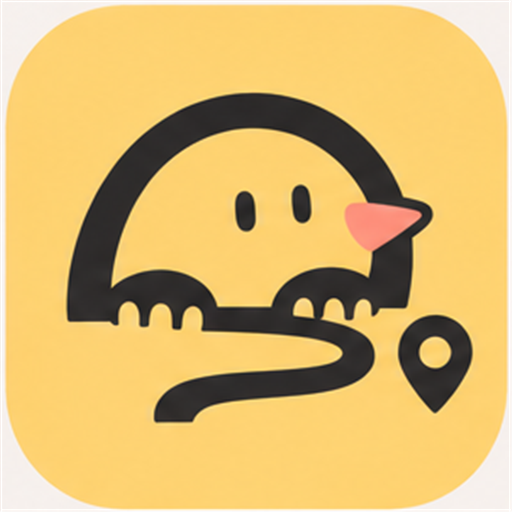
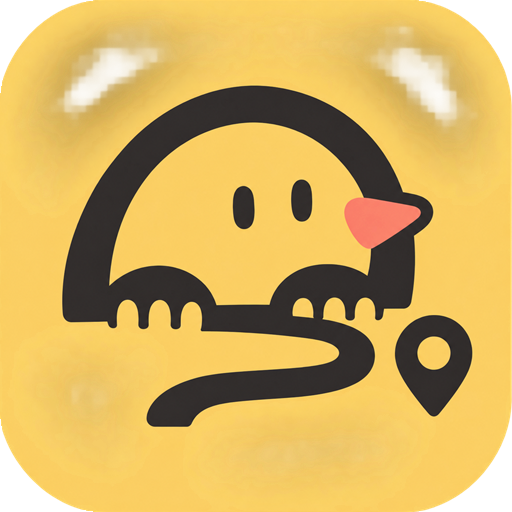
feat(frontend): 투명 마스코트와 앱 아이콘 적용
Refs #1

diff --git a/frontend/src/App.tsx b/frontend/src/App.tsx
@@ -142,7 +142,7 @@ export default function App() {
         <section className="stage">
           {!shown ? (
             <div className="empty">
-              <img className="empty-mascot" src="/setter-mascot.png" width="515" height="584" alt="" />
+              <img className="empty-mascot" src="/setter-mascot.png" width="384" height="434" alt="" />
               <h1 className="empty-title">출근지와 예산에 맞는 동네 찾기</h1>
               <ul className="empty-factors" aria-label="비교 기준">
                 {FACTORS.map((factor) => <li key={factor.key}>{factor.label}</li>)}

diff --git a/frontend/index.html b/frontend/index.html
@@ -2,7 +2,7 @@
 <html lang="ko">
   <head>
     <meta charset="UTF-8" />
-    <link rel="icon" type="image/png" sizes="192x192" href="/setter-icon-192.png" />
+    <link rel="icon" type="image/png" sizes="32x32" href="/setter-icon-32.png" />
     <link rel="apple-touch-icon" sizes="180x180" href="/setter-icon-180.png" />
     <link rel="manifest" href="/manifest.webmanifest" />
     <meta name="viewport" content="width=device-width, initial-scale=1.0" />
